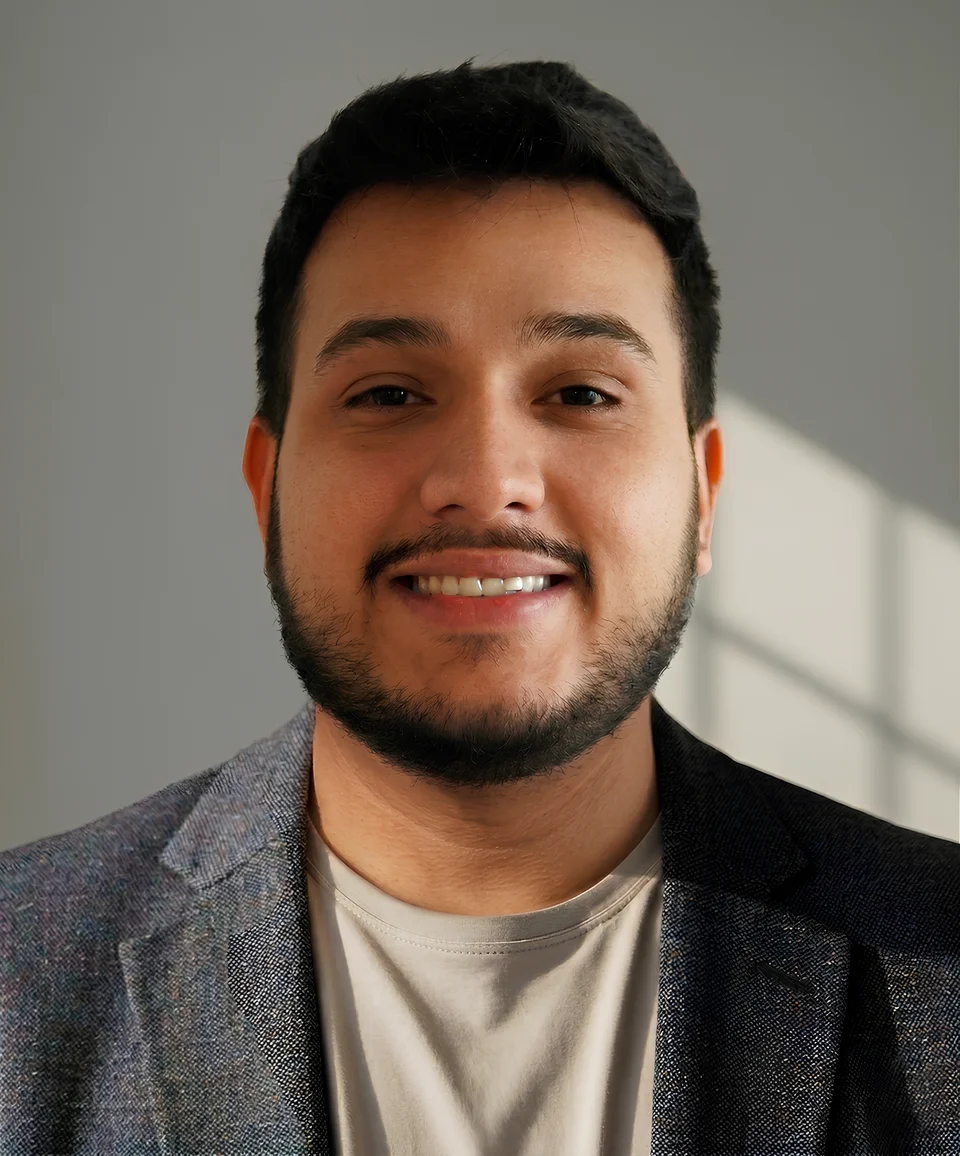
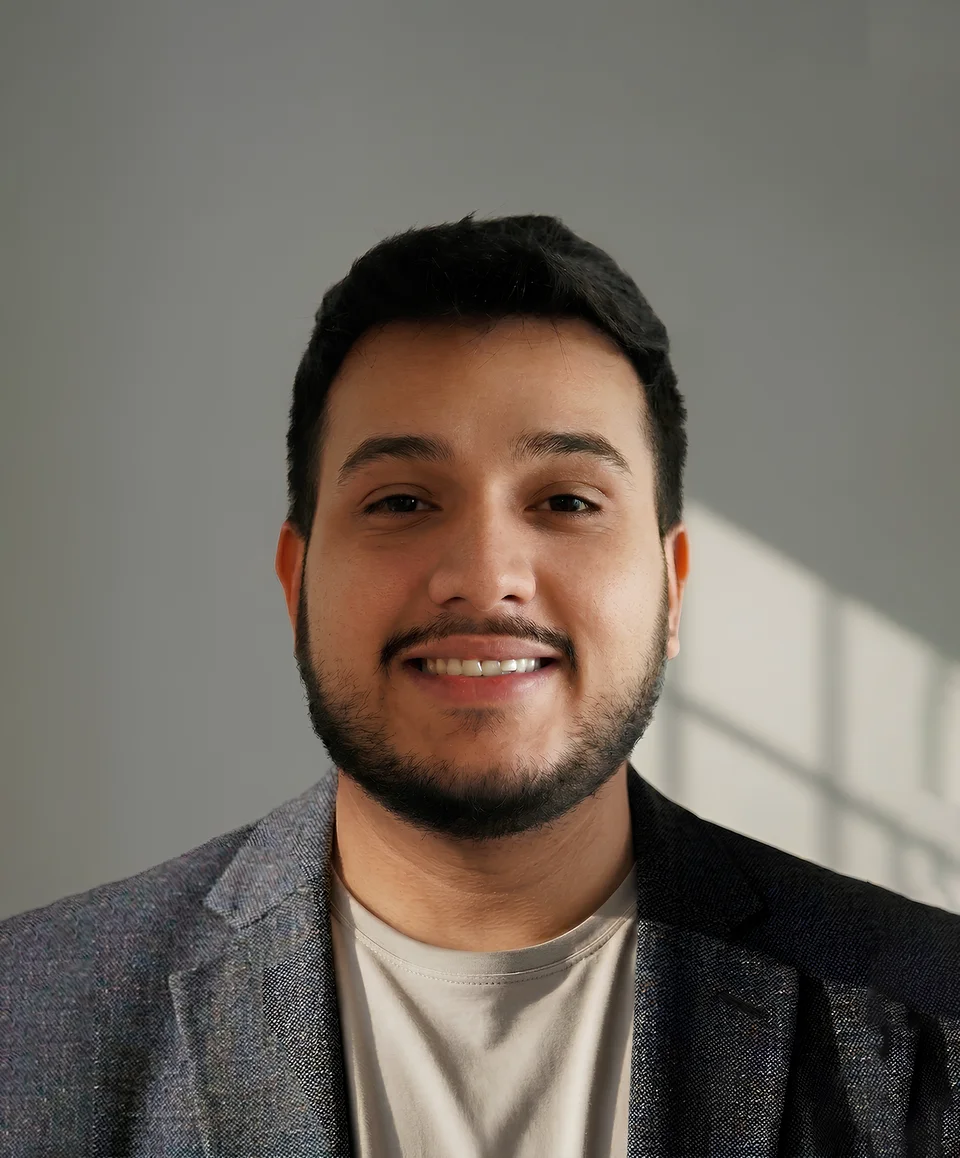
Update team member image and adjust display settings
Replaced Abhishek Parasher's profile image and removed CSS object-fit: contain override from about.html.

Replit-Commit-Author: Agent
Replit-Commit-Session-Id: 6c8d8d6f-982c-4641-ab56-3be131918969
Replit-Commit-Checkpoint-Type: full_checkpoint
Replit-Commit-Event-Id: cb7eadd7-7e58-40be-b1af-08e996941711
Replit-Commit-Screenshot-Url: https://storage.googleapis.com/screenshot-production-us-central1/0d3d7245-e84f-4fd9-a678-fef7aa368e14/6c8d8d6f-982c-4641-ab56-3be131918969/2FXOEgp
Replit-Helium-Checkpoint-Created: true

diff --git a/about.html b/about.html
@@ -209,7 +209,7 @@
             </div>
             <div class="member-slide w-slide">
               <a href="career.html" class="team-member w-inline-block">
-                <div class="aspect-ratio-1-1933 position-relative overflow-hidden border-rounded"><img news-section-load="media" loading="lazy" alt="Abhishek Parasher, Business Intelligence Manager at BlackOrigin Inc." src="images/abhishek-parasher.webp" sizes="(max-width: 960px) 100vw, 960px" srcset="images/abhishek-parasher-500.webp 500w, images/abhishek-parasher.webp 960w" class="media-block" style="object-fit: contain; object-position: center top; background-color: rgb(112,112,105);"></div>
+                <div class="aspect-ratio-1-1933 position-relative overflow-hidden border-rounded"><img news-section-load="media" loading="lazy" alt="Abhishek Parasher, Business Intelligence Manager at BlackOrigin Inc." src="images/abhishek-parasher.webp" sizes="(max-width: 960px) 100vw, 960px" srcset="images/abhishek-parasher-500.webp 500w, images/abhishek-parasher.webp 960w" class="media-block" style="object-position: center top;"></div>
                 <div class="spacing-1-5em"></div>
                 <div class="text-style-paragraph">Abhishek Parasher</div>
                 <div class="text-color-gray-500 text-style-paragraph">Business Intelligence Manager</div>
